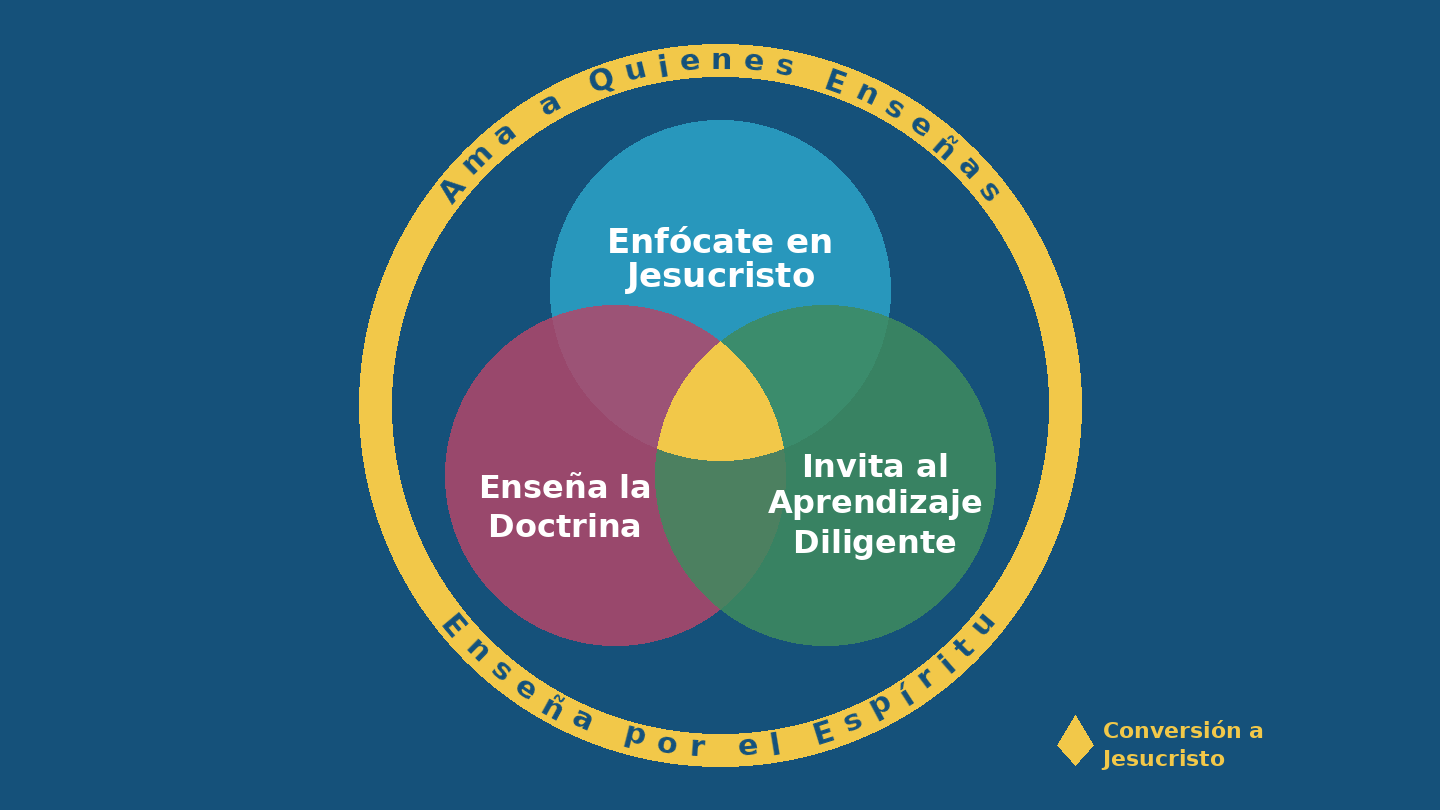
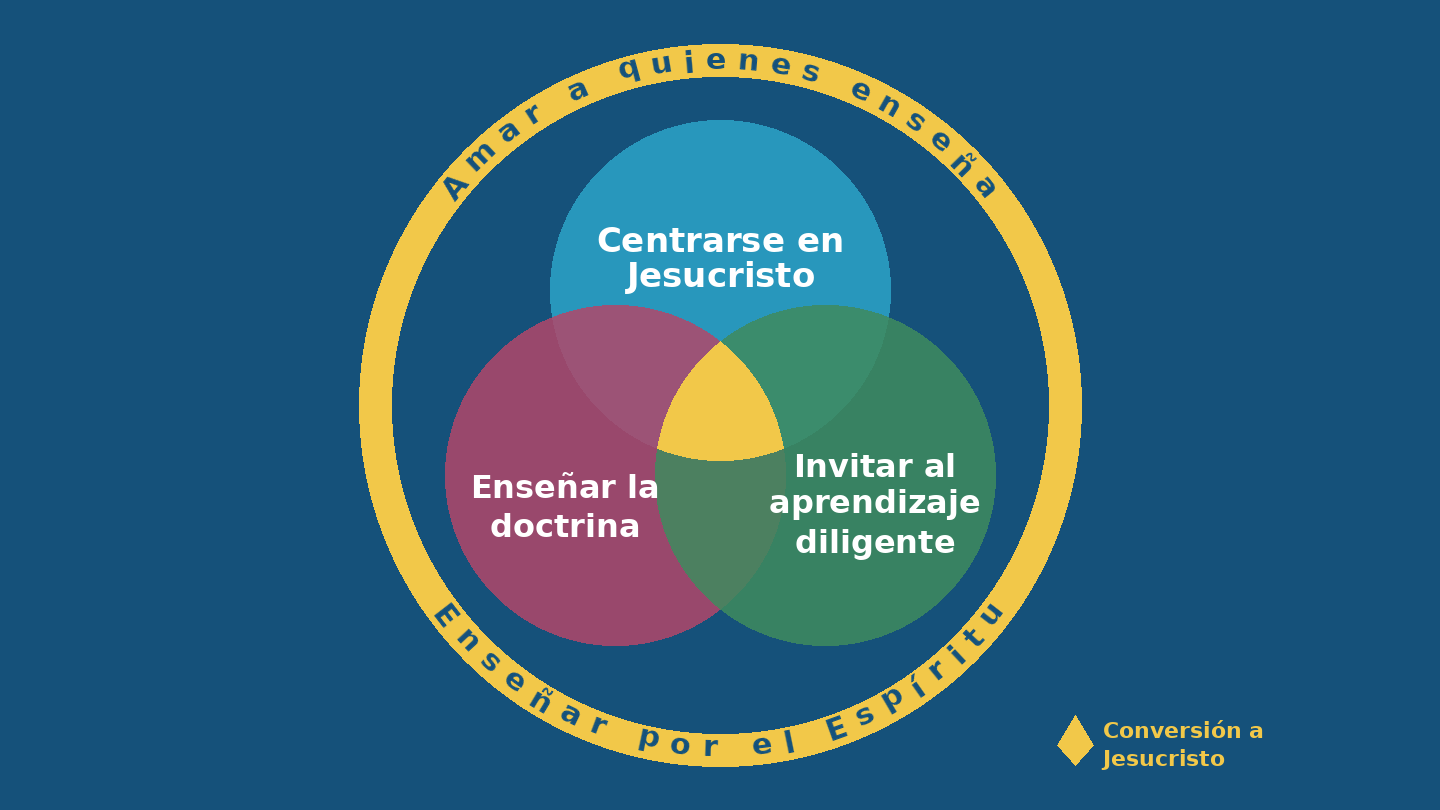
Update Spanish graphic to formal section wording
Swap in the revised Spanish diagram whose labels match the app's section
names ("Centrarse en Jesucristo", "Amar a quienes enseña", "Enseñar por el
Espíritu", "Enseñar la doctrina"), and update the alt text to match.

diff --git a/assets/lang/spa/strings.js b/assets/lang/spa/strings.js
@@ -9,7 +9,7 @@ window.TDS_STRINGS = {
 
   // ---- index.html ----
   "indexTitle": "Enseñanza al estilo de Cristo — Generador de combinaciones de habilidades",
-  "diagramAlt": "Principios de la enseñanza de Cristo: un anillo exterior con las leyendas «Ama a Quienes Enseñas» y «Enseña por el Espíritu» rodea tres círculos superpuestos —«Enfócate en Jesucristo», «Enseña la Doctrina» e «Invita al Aprendizaje Diligente»— que se unen en el centro: «Conversión a Jesucristo».",
+  "diagramAlt": "Principios de la enseñanza de Cristo: un anillo exterior con las leyendas «Amar a quienes enseña» y «Enseñar por el Espíritu» rodea tres círculos superpuestos —«Centrarse en Jesucristo», «Enseñar la doctrina» e «Invitar al aprendizaje diligente»— que se unen en el centro: «Conversión a Jesucristo».",
   "indexHeading": "Cree una combinación de habilidades de enseñanza al estilo de Cristo",
   "indexLead": "Cada semana, elija una habilidad de cada uno de los cinco principios anteriores y trabaje en ella en su próxima lección. Si cada maestro sigue esta sencilla práctica, mejoraremos en gran manera la conversión a Jesucristo.",
   "btnPickOwn": "Quiero elegir mis propias habilidades",